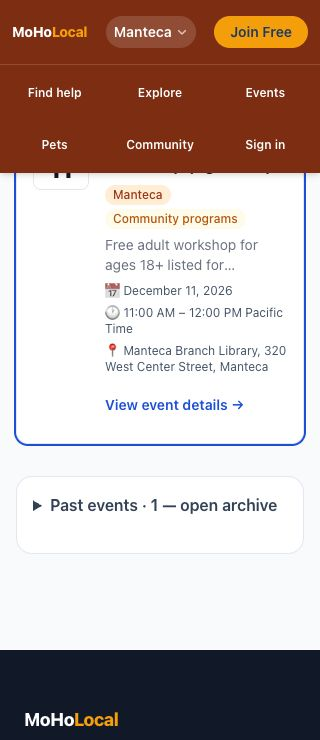
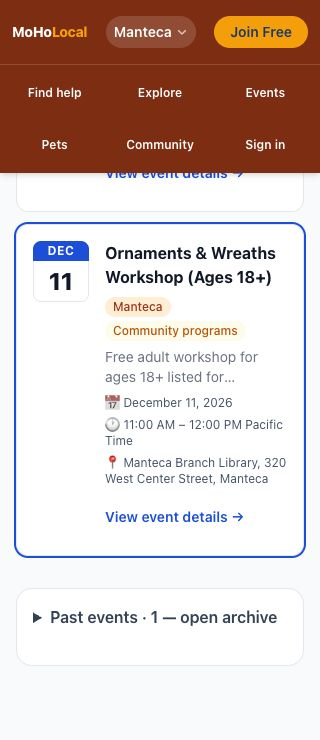
Record verified service event batch and live mobile acceptance

diff --git a/docs/research/services-events-mobile-2026-11-28.md b/docs/research/services-events-mobile-2026-11-28.md
@@ -1,5 +1,7 @@
 # November 28 — services, events and mobile date discovery
 
+Status: COMPLETE / LIVE.
+
 Resident outcome: expand source-checked service contacts and exact library occurrences across Mountain House, Tracy, Lathrop and Manteca, then make dates easier to reach on narrow screens. Starting clean main589a128. No scheduled refresh period completed by this separate increment.
 
 ## Published editorial batch
@@ -15,12 +17,12 @@ Four new exact events, checked official library pages and branch addresses/phone
 
 Descriptions distinguish exact checked facts from missing attendance details; no blanket free/admission/availability guarantee. New approval/check dates actualNovember28. Private business publication history retained in directory_private.listing_corrections. SQL publish-services-events-2026-11-28.sql ALREADY EXECUTED; do not rerun. Fresh source text/private readback in .private-refresh/2026-11-28-*.json, outsideGit. AnonymousHTTP200 returned2businesses,2checks,4events.
 
-Public acceptance: DirectoryNewest/Discover/Activity eachall4cities show Mr.Ed’s; ValleyCity presentTracy/Lathrop/Manteca and absentMountainHouse. All4new events appear cityEvents/Activity. Mr.Ed’s publicdetail phone/source/checkdate/coverage accepted; Mantecaeventdetail correctdate/time/source/18+free/capacity limitations accepted. No copiedimages, resident posts, testimonials or engagement.
+Public acceptance: DirectoryNewest/Discover/Activity eachall4cities show Mr.Ed’s; ValleyCity presentTracy/Lathrop/Manteca and absentMountainHouse. All4new events appear cityEvents/Activity. Both providerpublicdetail contacts accepted; all4eventdetail titles/sourcehrefs accepted. Mantecaeventdetail correctdate/time/source/18+free/capacity limitations accepted. No copiedimages, resident posts, testimonials or engagement.
 
 ## Mobile change and validation
 Measured priorproductionManteca320px: first eventarticle top808px, later1208–2000px, no compactdateindex. Added current-view upcoming date/title anchors with44pxminimumtargets, article focus/scrolloffset, all-city quicklist citylabels, Allfourcities label. Past archive excluded from index; existingcity/season/month filtering preserved. No new query/data claims.
 
-222testsPASS, TypeScriptPASS, OpenNextCloudflarebuildPASS. Firstsuiteattempt failed because disposablelocalPostgres was stopped; restarted existing isolatedtestcluster and fullsuite passed. LocalproductionbrowserPASS: all4cities at320px, zero broken anchors, allquicklinks≥44px and nooverflow. Manteca keyboardEnter focuses correctarticle; after smoothscroll settles article top112px. SeasonalTracyDecember list retains fivecurrent holidayevents; AllCities desktop1280px21entries/citylabels/nooverflow. Screenshot exposed the172pxsticky mobile navigation covering the heading at112px anchoroffset; increased offset to224px before acceptance. Native/productionUI acceptance pending.
+222testsPASS, TypeScriptPASS, OpenNextCloudflarebuildPASS. Firstsuiteattempt failed because disposablelocalPostgres was stopped; restarted existing isolatedtestcluster and fullsuite passed. LocalproductionbrowserPASS: all4cities at320px, zero broken anchors, allquicklinks≥44px and nooverflow. Manteca keyboardEnter focuses correctarticle; after smoothscroll settles article top112px. SeasonalTracyDecember list retains fivecurrent holidayevents; AllCities desktop1280px21entries/citylabels/nooverflow. Screenshot exposed the172pxsticky mobile navigation covering the heading at112px anchoroffset; increased offset to224px before acceptance. Corrected localbrowser acceptance: article receives keyboardfocus and settles224px belowtop, fullheading visible below172pxstickyheader. Rebuilt TypeScript/OpenNextPASS and inspected replacement screenshot. Nativeeaa8adbf-31f5-44a5-9ed9-f13f0281ea17 Ready4m24s, versiond715a1da. Exact public source27bea07c90fc9a3b100697ff55bee425d650cfdf verified. Superseded01b8e9dbuild5beca2c6 failed beforedeploy, not retried; log UI showed failure during release-check build stage, no broader root-cause claim. Production all4city320px views show7/5/4/5quickentries respectively, no brokenanchors or horizontaloverflow, everytarget≥44px. KeyboardEnter focuses Manteca target and fullheading visible below mobileheader (measured434px in live sample;224px in local). SeasonalTracyDecember correct5items; desktop screenshot accepted. Screenshot local/production inspected. Viewport restored, Next and disposablePostgres processes stopped. Batch COMPLETE / LIVE.
 
 ## Remaining priorities and boundaries
 Independent Lathrop/Manteca sitter/walker supply stillopen; unchanged iThink not republished. Photos remain OPEN with correctlocation/date/creator/reuserights needed; labeledsatellite retained, no photos imported. Petreporting LIVE, ongoingQA. FB unpublished, no outreach/messages/accounts/access/purchases. Existing Knights listing’s oldercontact/location differs from current general service-area source; follow up with its exactstorepage before any correction, no assumed consolidation. December1scheduledrefresh remains upcoming.

diff --git a/docs/BACKLOG.md b/docs/BACKLOG.md
@@ -1,8 +1,14 @@
 # MoHoLocal active execution queue
 
-## November 28 — service/event expansion and mobile date discovery IN PROGRESS
+## November 28 — services, events and mobile date discovery COMPLETE / LIVE
 
-Resident outcome: more source-checked contacts and exact upcoming occurrences across the four cities. Qualify Mr. Ed’s Plumbing (explicit all4city coverage) and Valley City Plumbing (Tracy/Lathrop/Manteca only), plus4individually checked library events; deduplicate identity/domain/phone/occurrence before publishing. Mobile Events measured320px: first card top808px, later cards1208–2000px, no compact date index. Add accessible date/title jump list with44px targets and current-view content only. Stop after scoped data/public read-back and regression/typecheck/build/local/native/live UI acceptance. FB unpublished; photo tasks open; pet reporting live.
+Published 2 unique website-checked plumbing providers: Mr. Ed’s explicitly serves all four cities; Valley City Plumbing names Tracy, Lathrop and Manteca only. Published 4 exact library occurrences, one per city: Mountain House Superspy Day Dec7, Lathrop Toddler Time Dec4, Tracy Clay Ornaments Dec16, Manteca adult Ornaments/Wreaths Dec11. Contacts, services, city coverage, dates/times and branch addresses individually checked; unknown attendance/availability retained. No quality/credential/owner confirmation implied.
+
+Anonymous HTTP200 confirms2businesses/2checks/4events. Directory Newest, Discover and Activity accepted across4cities with correct Valley City exclusion from Mountain House. All4event details/source links and city Events/Activity accepted; private publication history retained. No images copied or fabricated engagement.
+
+Mobile Events now has a compact date/title jump list,44px minimum targets, city labels in regional view and keyboard-focusable cards. Screenshot review caught sticky navigation obscuring a heading; corrected scroll offset before final acceptance. 222tests, TypeScript and OpenNext build PASS. Nativeeaa8adbf-31f5-44a5-9ed9-f13f0281ea17 Ready4m24s, versiond715a1da. Productionmarker27bea07c90fc9a3b100697ff55bee425d650cfdf matches. All4live320px views: no overflow/brokenanchors, minimumtargets≥44px; keyboard jump exposes fullheading, seasonalDecember filtering and desktop accepted. Viewport restored; disposable test processes stopped. Superseded01b8e9dbuild failed beforedeploy and was not retried. [Evidence](research/services-events-mobile-2026-11-28.md).
+
+Next: independent Lathrop/Manteca sitter/walker supply; check exact Knights office/contact against fresh primary page before any correction; December1 scheduled freshness and approaching-event details. Photo/location/date/reuse tasks OPEN, labeledsatellite retained; FB unpublished; pet reporting LIVE with ongoingQA. This increment does not consume the December1 scheduled refresh.
 
 
 ## November 27, 09:00 Pacific — scheduled freshness COMPLETE

diff --git a/docs/ROADMAP.md b/docs/ROADMAP.md
@@ -1,8 +1,14 @@
 # MoHoLocal Product Roadmap
 
-## November 28 — service/event expansion and mobile date discovery IN PROGRESS
+## November 28 — services, events and mobile date discovery COMPLETE / LIVE
 
-Resident outcome: more source-checked contacts and exact upcoming occurrences across the four cities. Qualify Mr. Ed’s Plumbing (explicit all4city coverage) and Valley City Plumbing (Tracy/Lathrop/Manteca only), plus4individually checked library events; deduplicate identity/domain/phone/occurrence before publishing. Mobile Events measured320px: first card top808px, later cards1208–2000px, no compact date index. Add accessible date/title jump list with44px targets and current-view content only. Stop after scoped data/public read-back and regression/typecheck/build/local/native/live UI acceptance. FB unpublished; photo tasks open; pet reporting live.
+Published 2 unique website-checked plumbing providers: Mr. Ed’s explicitly serves all four cities; Valley City Plumbing names Tracy, Lathrop and Manteca only. Published 4 exact library occurrences, one per city: Mountain House Superspy Day Dec7, Lathrop Toddler Time Dec4, Tracy Clay Ornaments Dec16, Manteca adult Ornaments/Wreaths Dec11. Contacts, services, city coverage, dates/times and branch addresses individually checked; unknown attendance/availability retained. No quality/credential/owner confirmation implied.
+
+Anonymous HTTP200 confirms2businesses/2checks/4events. Directory Newest, Discover and Activity accepted across4cities with correct Valley City exclusion from Mountain House. All4event details/source links and city Events/Activity accepted; private publication history retained. No images copied or fabricated engagement.
+
+Mobile Events now has a compact date/title jump list,44px minimum targets, city labels in regional view and keyboard-focusable cards. Screenshot review caught sticky navigation obscuring a heading; corrected scroll offset before final acceptance. 222tests, TypeScript and OpenNext build PASS. Nativeeaa8adbf-31f5-44a5-9ed9-f13f0281ea17 Ready4m24s, versiond715a1da. Productionmarker27bea07c90fc9a3b100697ff55bee425d650cfdf matches. All4live320px views: no overflow/brokenanchors, minimumtargets≥44px; keyboard jump exposes fullheading, seasonalDecember filtering and desktop accepted. Viewport restored; disposable test processes stopped. Superseded01b8e9dbuild failed beforedeploy and was not retried. [Evidence](research/services-events-mobile-2026-11-28.md).
+
+Next: independent Lathrop/Manteca sitter/walker supply; check exact Knights office/contact against fresh primary page before any correction; December1 scheduled freshness and approaching-event details. Photo/location/date/reuse tasks OPEN, labeledsatellite retained; FB unpublished; pet reporting LIVE with ongoingQA. This increment does not consume the December1 scheduled refresh.
 
 
 ## November 27, 09:00 Pacific — scheduled freshness COMPLETE

diff --git a/docs/SPRINTS.md b/docs/SPRINTS.md
@@ -1,8 +1,14 @@
 # MoHoLocal — SPRINTS.md
 
-## November 28 — service/event expansion and mobile date discovery IN PROGRESS
+## November 28 — services, events and mobile date discovery COMPLETE / LIVE
 
-Resident outcome: more source-checked contacts and exact upcoming occurrences across the four cities. Qualify Mr. Ed’s Plumbing (explicit all4city coverage) and Valley City Plumbing (Tracy/Lathrop/Manteca only), plus4individually checked library events; deduplicate identity/domain/phone/occurrence before publishing. Mobile Events measured320px: first card top808px, later cards1208–2000px, no compact date index. Add accessible date/title jump list with44px targets and current-view content only. Stop after scoped data/public read-back and regression/typecheck/build/local/native/live UI acceptance. FB unpublished; photo tasks open; pet reporting live.
+Published 2 unique website-checked plumbing providers: Mr. Ed’s explicitly serves all four cities; Valley City Plumbing names Tracy, Lathrop and Manteca only. Published 4 exact library occurrences, one per city: Mountain House Superspy Day Dec7, Lathrop Toddler Time Dec4, Tracy Clay Ornaments Dec16, Manteca adult Ornaments/Wreaths Dec11. Contacts, services, city coverage, dates/times and branch addresses individually checked; unknown attendance/availability retained. No quality/credential/owner confirmation implied.
+
+Anonymous HTTP200 confirms2businesses/2checks/4events. Directory Newest, Discover and Activity accepted across4cities with correct Valley City exclusion from Mountain House. All4event details/source links and city Events/Activity accepted; private publication history retained. No images copied or fabricated engagement.
+
+Mobile Events now has a compact date/title jump list,44px minimum targets, city labels in regional view and keyboard-focusable cards. Screenshot review caught sticky navigation obscuring a heading; corrected scroll offset before final acceptance. 222tests, TypeScript and OpenNext build PASS. Nativeeaa8adbf-31f5-44a5-9ed9-f13f0281ea17 Ready4m24s, versiond715a1da. Productionmarker27bea07c90fc9a3b100697ff55bee425d650cfdf matches. All4live320px views: no overflow/brokenanchors, minimumtargets≥44px; keyboard jump exposes fullheading, seasonalDecember filtering and desktop accepted. Viewport restored; disposable test processes stopped. Superseded01b8e9dbuild failed beforedeploy and was not retried. [Evidence](research/services-events-mobile-2026-11-28.md).
+
+Next: independent Lathrop/Manteca sitter/walker supply; check exact Knights office/contact against fresh primary page before any correction; December1 scheduled freshness and approaching-event details. Photo/location/date/reuse tasks OPEN, labeledsatellite retained; FB unpublished; pet reporting LIVE with ongoingQA. This increment does not consume the December1 scheduled refresh.
 
 
 ## November 27, 09:00 Pacific — scheduled freshness COMPLETE

diff --git a/docs/REFRESH_LOG.md b/docs/REFRESH_LOG.md
@@ -1,5 +1,16 @@
 # MoHoLocal living-directory refresh ledger
 
+## November 28 — services, events and mobile date discovery COMPLETE / LIVE
+
+Published 2 unique website-checked plumbing providers: Mr. Ed’s explicitly serves all four cities; Valley City Plumbing names Tracy, Lathrop and Manteca only. Published 4 exact library occurrences, one per city: Mountain House Superspy Day Dec7, Lathrop Toddler Time Dec4, Tracy Clay Ornaments Dec16, Manteca adult Ornaments/Wreaths Dec11. Contacts, services, city coverage, dates/times and branch addresses individually checked; unknown attendance/availability retained. No quality/credential/owner confirmation implied.
+
+Anonymous HTTP200 confirms2businesses/2checks/4events. Directory Newest, Discover and Activity accepted across4cities with correct Valley City exclusion from Mountain House. All4event details/source links and city Events/Activity accepted; private publication history retained. No images copied or fabricated engagement.
+
+Mobile Events now has a compact date/title jump list,44px minimum targets, city labels in regional view and keyboard-focusable cards. Screenshot review caught sticky navigation obscuring a heading; corrected scroll offset before final acceptance. 222tests, TypeScript and OpenNext build PASS. Nativeeaa8adbf-31f5-44a5-9ed9-f13f0281ea17 Ready4m24s, versiond715a1da. Productionmarker27bea07c90fc9a3b100697ff55bee425d650cfdf matches. All4live320px views: no overflow/brokenanchors, minimumtargets≥44px; keyboard jump exposes fullheading, seasonalDecember filtering and desktop accepted. Viewport restored; disposable test processes stopped. Superseded01b8e9dbuild failed beforedeploy and was not retried. [Evidence](research/services-events-mobile-2026-11-28.md).
+
+Next: independent Lathrop/Manteca sitter/walker supply; check exact Knights office/contact against fresh primary page before any correction; December1 scheduled freshness and approaching-event details. Photo/location/date/reuse tasks OPEN, labeledsatellite retained; FB unpublished; pet reporting LIVE with ongoingQA. This increment does not consume the December1 scheduled refresh.
+
+
 ## November 27, 09:00 Pacific — scheduled freshness COMPLETE
 
 LIVE: removed expired November26 Sam’s Club Lathrop closure notice, preserving original approval and private before/after history. Fresh primary identity/address/contact check and anonymous/public detail/Activity read-back accepted. No new provider or event qualified; selected upcoming library/City/organizer sources across all four cities agree with existing records. BarkingBuddies held because primary contact/coverage could not be verified.
